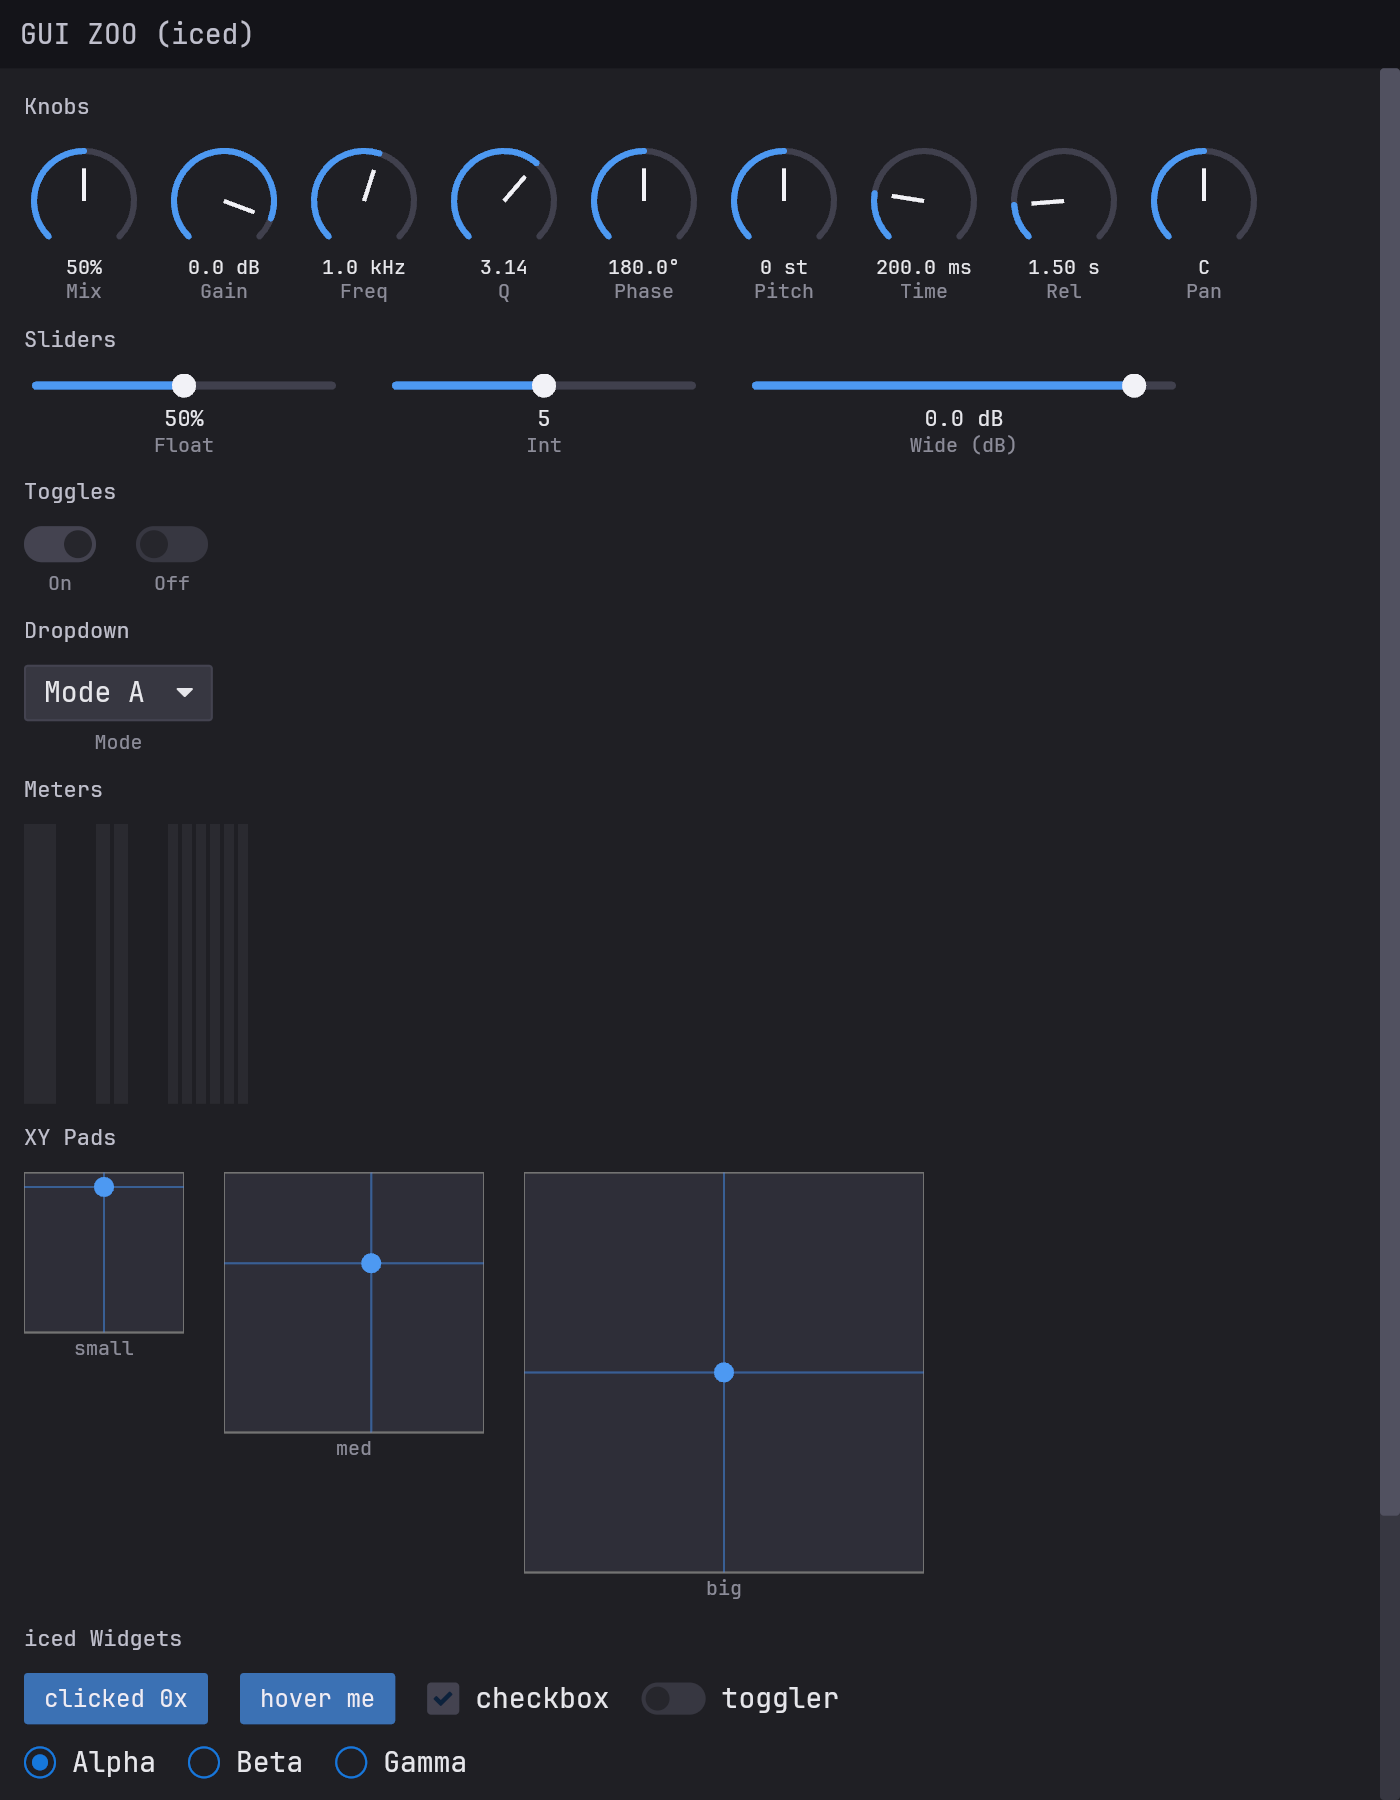
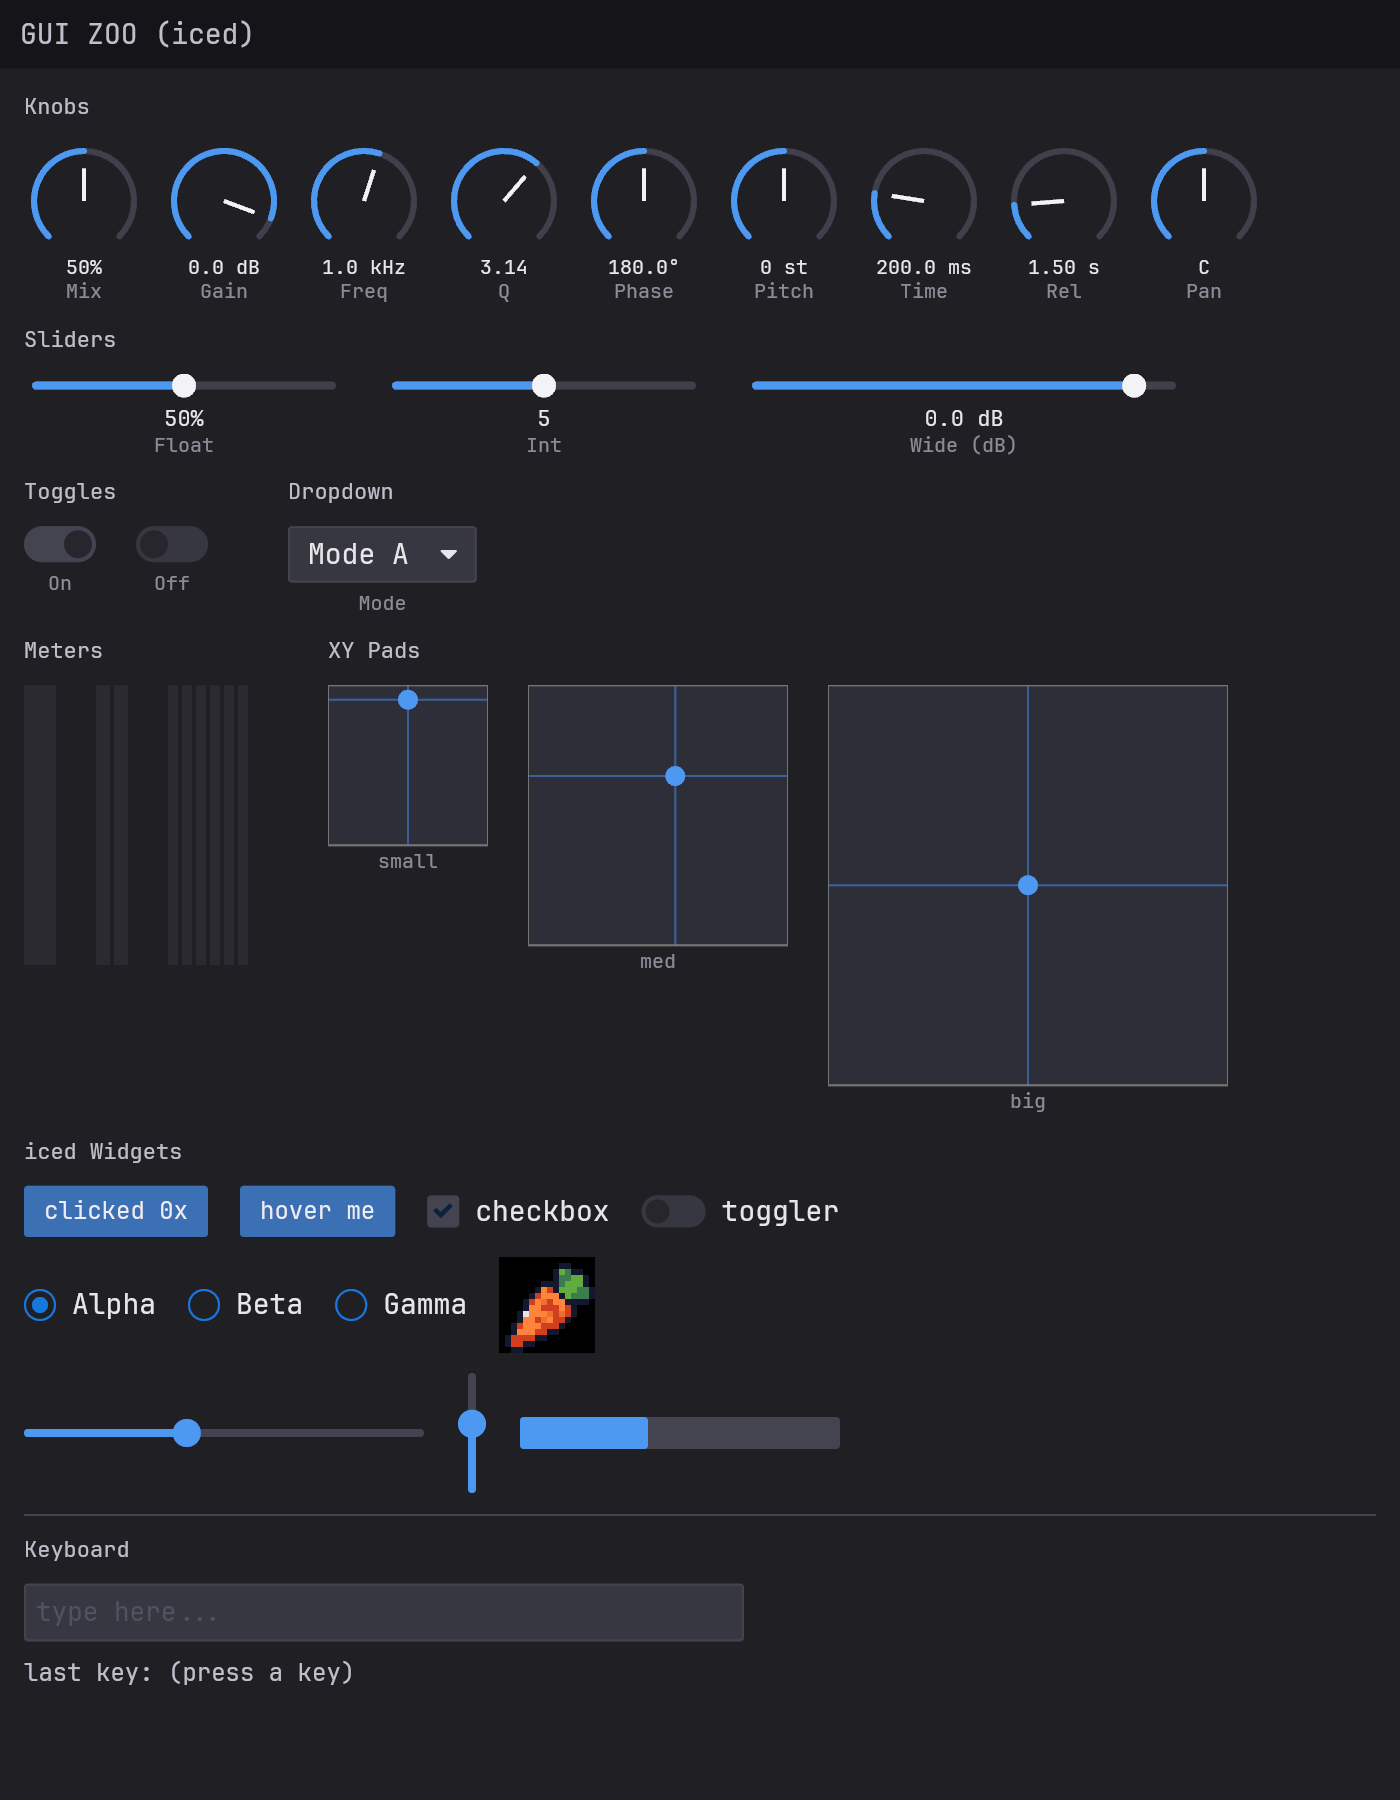
Examples: Update GUI zoos

diff --git a/examples/truce-example-gui-zoo-egui/src/lib.rs b/examples/truce-example-gui-zoo-egui/src/lib.rs
@@ -218,40 +218,54 @@ fn zoo_ui(ui: &mut egui::Ui, state: &PluginContext<ZooParams>) {
                         });
                     });
 
-                    section(ui, "Toggles");
-                    ui.horizontal(|ui| {
-                        ui.spacing_mut().item_spacing = egui::vec2(20.0, 0.0);
-                        param_toggle(ui, state, P::TOn, "On");
-                        param_toggle(ui, state, P::TOff, "Off");
+                    // Pair short sections side by side so the native-widget
+                    // section below lands in the default (unscrolled) view.
+                    ui.horizontal_top(|ui| {
+                        ui.vertical(|ui| {
+                            section(ui, "Toggles");
+                            ui.horizontal(|ui| {
+                                ui.spacing_mut().item_spacing = egui::vec2(20.0, 0.0);
+                                param_toggle(ui, state, P::TOn, "On");
+                                param_toggle(ui, state, P::TOff, "Off");
+                            });
+                        });
+                        ui.add_space(30.0);
+                        ui.vertical(|ui| {
+                            section(ui, "Dropdowns");
+                            ui.horizontal(|ui| {
+                                ui.spacing_mut().item_spacing = egui::vec2(20.0, 0.0);
+                                // `cols` controls how the popup grid is shaped.
+                                param_dropdown(ui, state, P::Mode, "Mode", 1);
+                                param_dropdown(ui, state, P::ModeWide, "Mode Wide", 2);
+                            });
+                        });
                     });
 
-                    section(ui, "Dropdowns");
-                    ui.horizontal(|ui| {
-                        ui.spacing_mut().item_spacing = egui::vec2(20.0, 0.0);
-                        // `cols` controls how the popup grid is shaped.
-                        param_dropdown(ui, state, P::Mode, "Mode", 1);
-                        param_dropdown(ui, state, P::ModeWide, "Mode Wide", 2);
-                    });
-
-                    section(ui, "Meters");
-                    ui.horizontal(|ui| {
-                        ui.spacing_mut().item_spacing = egui::vec2(20.0, 0.0);
-                        level_meter(ui, state, &[P::MIn], 140.0);
-                        level_meter(ui, state, &[P::ML, P::MR], 140.0);
-                        level_meter(
-                            ui,
-                            state,
-                            &[P::M6a, P::M6b, P::M6c, P::M6d, P::M6e, P::M6f],
-                            140.0,
-                        );
-                    });
-
-                    section(ui, "XY Pads");
-                    ui.horizontal(|ui| {
-                        ui.spacing_mut().item_spacing = egui::vec2(20.0, 0.0);
-                        param_xy_pad(ui, state, P::KMix, P::KGain, "small", 80.0, 80.0);
-                        param_xy_pad(ui, state, P::KFreq, P::KQ, "med", 130.0, 130.0);
-                        param_xy_pad(ui, state, P::KPan, P::KPhase, "big", 200.0, 200.0);
+                    ui.horizontal_top(|ui| {
+                        ui.vertical(|ui| {
+                            section(ui, "Meters");
+                            ui.horizontal(|ui| {
+                                ui.spacing_mut().item_spacing = egui::vec2(20.0, 0.0);
+                                level_meter(ui, state, &[P::MIn], 140.0);
+                                level_meter(ui, state, &[P::ML, P::MR], 140.0);
+                                level_meter(
+                                    ui,
+                                    state,
+                                    &[P::M6a, P::M6b, P::M6c, P::M6d, P::M6e, P::M6f],
+                                    140.0,
+                                );
+                            });
+                        });
+                        ui.add_space(30.0);
+                        ui.vertical(|ui| {
+                            section(ui, "XY Pads");
+                            ui.horizontal(|ui| {
+                                ui.spacing_mut().item_spacing = egui::vec2(20.0, 0.0);
+                                param_xy_pad(ui, state, P::KMix, P::KGain, "small", 80.0, 80.0);
+                                param_xy_pad(ui, state, P::KFreq, P::KQ, "med", 130.0, 130.0);
+                                param_xy_pad(ui, state, P::KPan, P::KPhase, "big", 200.0, 200.0);
+                            });
+                        });
                     });
 
                     section(ui, "egui Widgets");
@@ -306,30 +320,58 @@ fn egui_widgets_section(ui: &mut egui::Ui) {
     let mut vsval = ui.data_mut(|d| d.get_temp::<f32>(vslider_id).unwrap_or(0.6));
     let mut drag = ui.data_mut(|d| d.get_temp::<f32>(drag_id).unwrap_or(1.0));
 
-    ui.horizontal(|ui| {
-        ui.spacing_mut().item_spacing = egui::vec2(16.0, 0.0);
-        if ui.button(format!("clicked {counter}x")).clicked() {
-            counter += 1;
-        }
-        ui.checkbox(&mut checked, "checkbox");
-        ui.radio_value(&mut radio, 0, "Alpha");
-        ui.radio_value(&mut radio, 1, "Beta");
-        ui.radio_value(&mut radio, 2, "Gamma");
-    });
+    // A label | widget grid keeps the mixed widget kinds aligned. (egui's
+    // `DragValue` is a drag-to-edit number box - labelling it avoids the
+    // "mystery text field" confusion.)
+    let carrot = carrot_texture(ui.ctx());
+    egui::Grid::new("zoo_egui_widgets")
+        .num_columns(2)
+        .spacing([16.0, 8.0])
+        .show(ui, |ui| {
+            ui.label("button");
+            if ui.button(format!("clicked {counter}x")).clicked() {
+                counter += 1;
+            }
+            ui.end_row();
 
-    ui.horizontal(|ui| {
-        ui.spacing_mut().item_spacing = egui::vec2(16.0, 0.0);
-        ui.add(egui::DragValue::new(&mut drag).speed(0.05));
-        let carrot = carrot_texture(ui.ctx());
-        ui.add(egui::Image::from_texture(&carrot).fit_to_exact_size(egui::vec2(48.0, 48.0)));
-    });
+            ui.label("checkbox");
+            ui.checkbox(&mut checked, "");
+            ui.end_row();
 
-    ui.horizontal(|ui| {
-        ui.spacing_mut().item_spacing = egui::vec2(20.0, 0.0);
-        ui.add(egui::Slider::new(&mut vsval, 0.0..=1.0).vertical());
-        ui.vertical(|ui| {
-            ui.add(egui::Slider::new(&mut sval, 0.0..=1.0).text("slider"));
+            ui.label("radio");
+            ui.horizontal(|ui| {
+                ui.radio_value(&mut radio, 0, "Alpha");
+                ui.radio_value(&mut radio, 1, "Beta");
+                ui.radio_value(&mut radio, 2, "Gamma");
+            });
+            ui.end_row();
+
+            ui.label("drag value");
+            ui.add(egui::DragValue::new(&mut drag).speed(0.05));
+            ui.end_row();
+
+            ui.label("slider");
+            ui.add(egui::Slider::new(&mut sval, 0.0..=1.0));
+            ui.end_row();
+
+            ui.label("progress");
             ui.add(egui::ProgressBar::new(sval).show_percentage());
+            ui.end_row();
+        });
+
+    // The tall widgets (vertical slider + image) sit side by side under the
+    // grid so they don't each stretch a grid row.
+    ui.add_space(8.0);
+    ui.horizontal_top(|ui| {
+        ui.spacing_mut().item_spacing = egui::vec2(28.0, 0.0);
+        ui.vertical(|ui| {
+            ui.label("v-slider");
+            ui.spacing_mut().slider_width = 60.0;
+            ui.add(egui::Slider::new(&mut vsval, 0.0..=1.0).vertical());
+        });
+        ui.vertical(|ui| {
+            ui.label("image");
+            ui.add(egui::Image::from_texture(&carrot).fit_to_exact_size(egui::vec2(48.0, 48.0)));
         });
     });
     ui.separator();

diff --git a/examples/truce-example-gui-zoo-iced/src/lib.rs b/examples/truce-example-gui-zoo-iced/src/lib.rs
@@ -358,14 +358,20 @@ impl IcedPlugin<ZooParams> for ZooUi {
             .push(knobs_row)
             .push(section_label("Sliders"))
             .push(sliders_row)
-            .push(section_label("Toggles"))
-            .push(toggles_row)
-            .push(section_label("Dropdown"))
-            .push(dropdown_row)
-            .push(section_label("Meters"))
-            .push(meters_row)
-            .push(section_label("XY Pads"))
-            .push(xy_row)
+            // Pair short sections side by side so the native-widget section
+            // below lands in the default (unscrolled) view.
+            .push(
+                Row::new()
+                    .push(labeled("Toggles", toggles_row))
+                    .push(labeled("Dropdown", dropdown_row))
+                    .spacing(40.0),
+            )
+            .push(
+                Row::new()
+                    .push(labeled("Meters", meters_row))
+                    .push(labeled("XY Pads", xy_row))
+                    .spacing(40.0),
+            )
             .push(section_label("iced Widgets"))
             .push(self.widgets_section())
             .push(section_label("Keyboard"))
@@ -511,6 +517,19 @@ fn section_label(label: &str) -> Element<'_, Message<ZooMsg>> {
         .into()
 }
 
+/// A titled sub-section (label over content), for placing two sections in
+/// one row.
+fn labeled<'a>(
+    title: &'a str,
+    content: Element<'a, Message<ZooMsg>>,
+) -> Element<'a, Message<ZooMsg>> {
+    Column::new()
+        .push(section_label(title))
+        .push(content)
+        .spacing(10.0)
+        .into()
+}
+
 // --- Plugin ---
 
 pub struct ZooIced {
@@ -595,6 +614,23 @@ mod tests {
     #[test]
     fn info_is_valid() {
         truce_test::assert_valid_info::<Plugin>();
+    }
+
+    #[test]
+    fn carrot_decodes_to_an_rgba_handle() {
+        // `decode_carrot` panics if the embedded gif is missing/corrupt.
+        let handle = decode_carrot();
+        let image::Handle::Rgba {
+            width,
+            height,
+            pixels,
+            ..
+        } = handle
+        else {
+            panic!("expected an RGBA handle");
+        };
+        assert_eq!((width, height), (16, 16));
+        assert_eq!(pixels.len(), 16 * 16 * 4);
     }
 
     #[test]